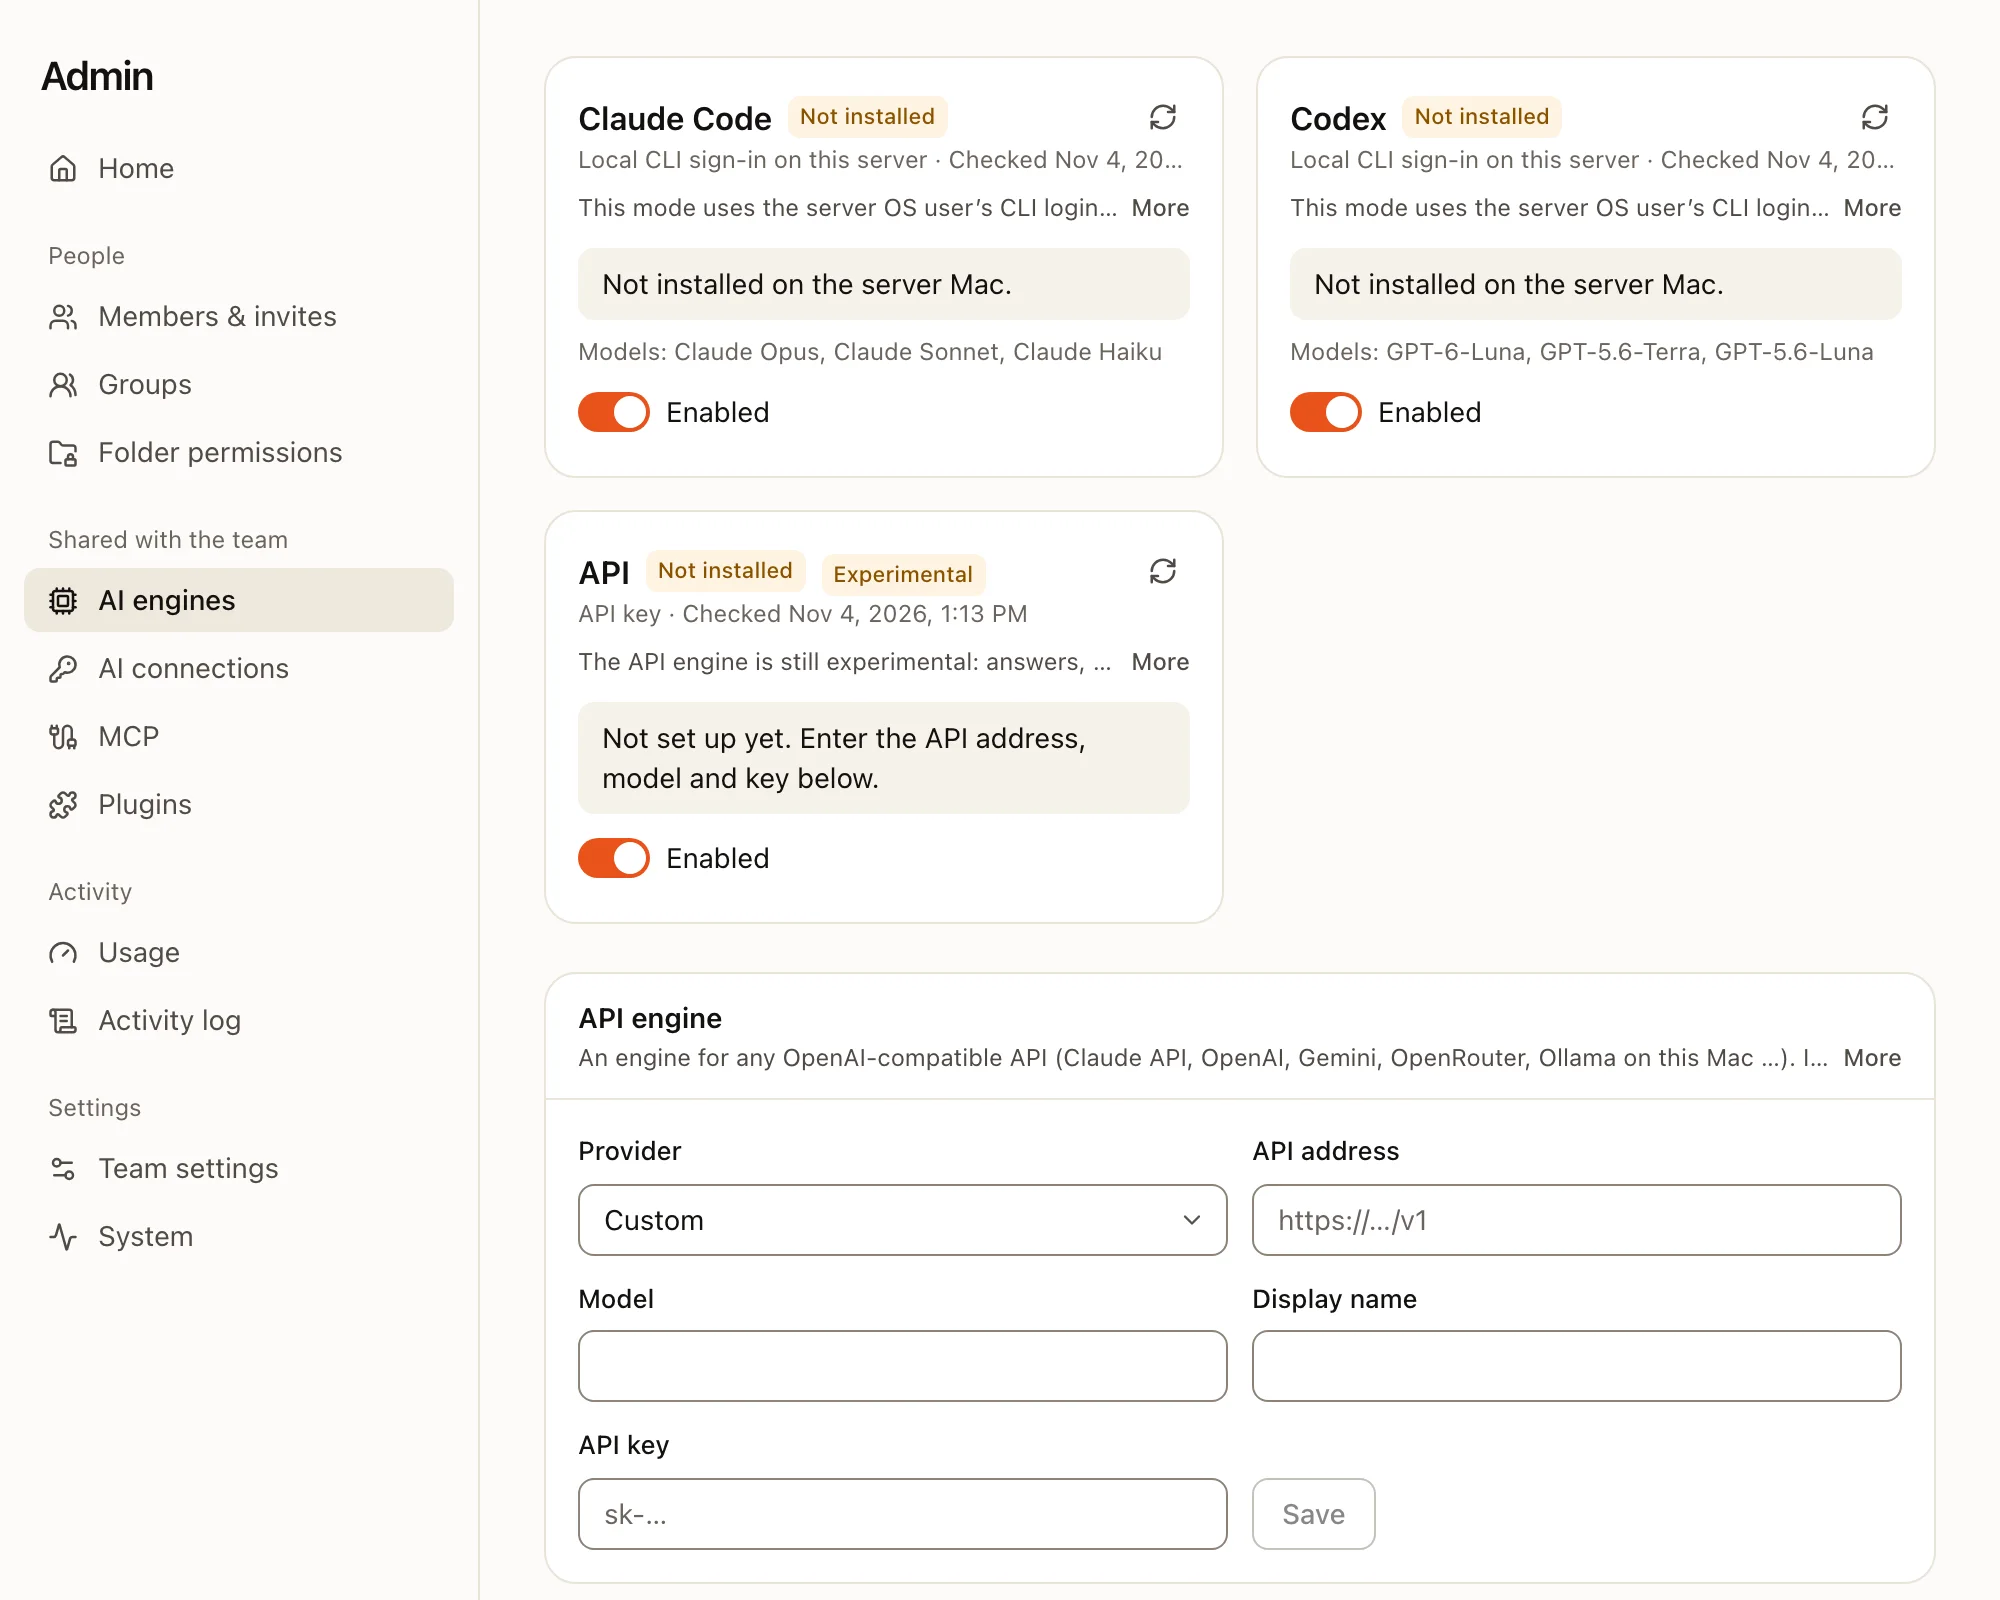
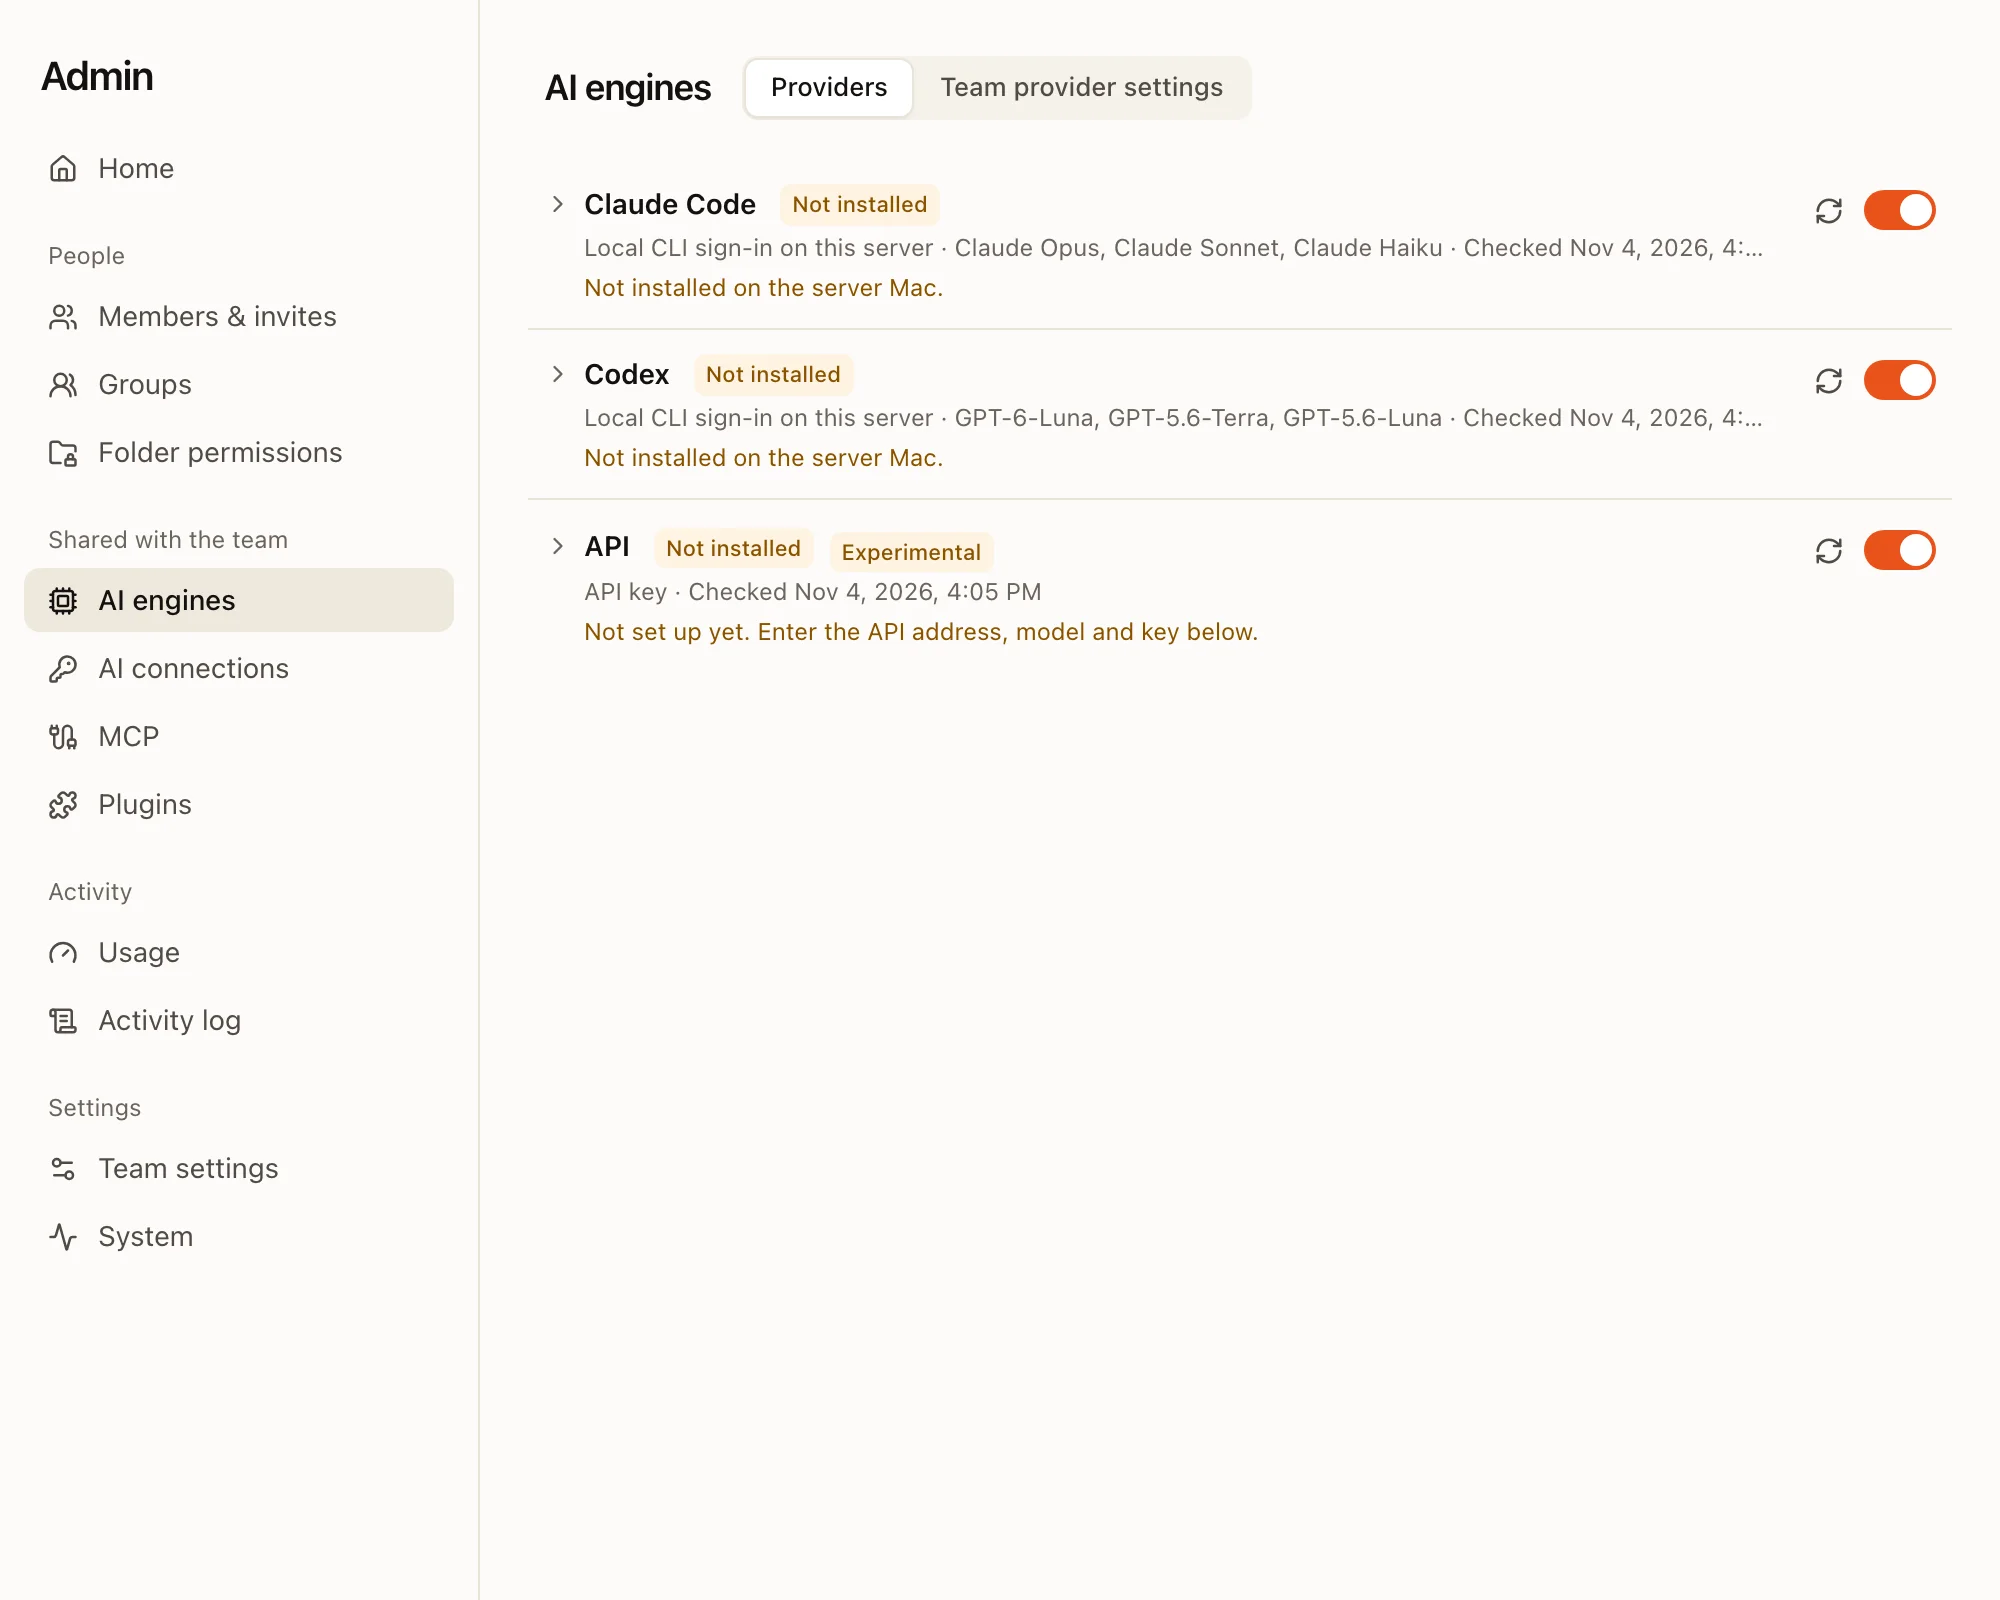
Docs: the AI engines tabs (Providers, Team provider settings) with new screenshots
The docs site now shows Admin › AI engines as it is on main: the Providers list, an engine opened, and Team
provider settings, with screenshots retaken from a server running main (made-up demo team). Admin Home and the
activity log shots are retaken too. The notes about older screens now name the version (before 0.4.0) instead of
"older versions", and usage limits point to AI engines › Team provider settings.

diff --git a/scripts/docs/screenshots.ts b/scripts/docs/screenshots.ts
@@ -65,6 +65,8 @@ const SHOTS: Shot[] = [
   { file: 'usage/team', path: '/admin/usage', crop: 'main' },
   { file: 'admin/home', path: '/admin' },
   { file: 'admin/engines', path: '/admin/engines', crop: 'main' },
+  { file: 'admin/engines-open', path: '/admin/engines', prepare: click('[data-testid="engine-open"]'), crop: '[data-testid="engine-card"]', pad: 16 },
+  { file: 'admin/engines-team', path: '/admin/engines?tab=team', crop: 'main' },
   { file: 'admin/activity-log', path: '/admin/audit', crop: 'main' },
   { file: 'settings/account-menu', path: '/', prepare: click('[data-testid="account-menu"]'), crop: '[data-testid="account-dropdown"]', pad: 24 },
   { file: 'settings/settings', path: '/settings/profile', crop: '[data-testid="settings-dialog"]' },

diff --git a/docs/site/use/admin.md b/docs/site/use/admin.md
@@ -23,9 +23,9 @@ description: What owners and admins manage, and where each setting lives.
 Assign folders to groups and check access with two test accounts. [Read about permissions](files-and-permissions.md).
 
 #### Connect the AI
-The owner connects an authorized Claude or OpenAI account in **AI connections**. **AI engines** shows whether each engine is ready.
+The owner connects an authorized Claude or OpenAI account in **AI connections**. **AI engines › Providers** shows whether each engine is ready.
 
-![Admin › AI engines: Claude Code, Codex and the API engine, each with its state, models and an on/off switch](../images/admin/engines.webp "AI engines")
+![Admin › AI engines › Providers: Claude Code, Codex and the API engine, each with its state, models, check again and an on/off switch](../images/admin/engines.webp "AI engines › Providers")
 
 #### Invite the team
 Start with a small pilot group, then confirm roles and folder access.
@@ -45,6 +45,27 @@ Back up, then practise a restore with IT. [Read about backups](../operate/backup
 
 :::warning
 People who operate the server, its OS or its storage can read stored files and chats. In hosted plans, that includes Trina's operators.
+:::
+
+## AI engines
+
+**Admin › AI engines** has two tabs.
+
+| Tab | What it holds |
+|---|---|
+| **Providers** | One row per engine (Claude Code, Codex, API): its state, sign-in mode, models and last check, with **↻** to check again and an on/off switch. |
+| **Team provider settings** | The default engine and model, answers at the same time, who may pick the engine, switching to Codex at Claude's limit, and usage limits. |
+
+Click an engine's name to open its details: what is missing and how to fix it, every model, and for the owner the API engine form.
+
+![An engine row opened: the reason it is not ready, its sign-in mode, models and last check](../images/admin/engines-open.webp "An engine opened")
+
+![Admin › AI engines › Team provider settings: team defaults, who picks the engine, the switch to Codex, and usage limits](../images/admin/engines-team.webp "Team provider settings")
+
+Save and Cancel appear in a section only after you change something in it.
+
+:::note
+The two tabs are new in 0.4.0. In 0.3.0 and earlier, everything is on one **AI engines** page.
 :::
 
 ## Activity log

diff --git a/docs/site/use/usage-and-limits.md b/docs/site/use/usage-and-limits.md
@@ -16,7 +16,7 @@ Open **Usage** from your account menu. It shows your answers, tokens and estimat
 ![Settings › Usage: Your usage, your answers by model for this month, and answers, tokens and estimated cost](../images/usage/mine.webp "Your own usage, in Settings")
 
 :::note
-Personal usage is new. In older versions, only admins see usage, in **Admin › Usage**.
+Personal usage is new in 0.4.0. Before that, only admins see usage, in **Admin › Usage**.
 :::
 
 ## The team's usage
@@ -33,7 +33,7 @@ Personal skills are never counted by name, so no admin sees what someone keeps p
 
 ## Set limits
 
-There are no limits by default. Admins add them in **Admin › AI engines**, under usage limits.
+There are no limits by default. Admins add them in **Admin › AI engines › Team provider settings**, under **Usage limits**.
 
 | Limit for | Period |
 |---|---|

diff --git a/docs/site/use/scheduled-tasks.md b/docs/site/use/scheduled-tasks.md
@@ -6,7 +6,7 @@ description: Ask once and let the AI repeat the work on a schedule, in the team'
 A scheduled task runs a request again and again: every weekday morning, every Monday, the first of the month. It runs as the person who made it.
 
 :::note
-In current versions, scheduled tasks have their own **Scheduled** item in the sidebar. Older versions keep them under **Settings › Schedules**.
+From 0.4.0, scheduled tasks have their own **Scheduled** item in the sidebar. Before that, they are under **Settings › Schedules**.
 :::
 
 ![The Scheduled tasks page: two task cards with their folders and times, and a New task button](../images/scheduled/list.webp "Scheduled tasks, with Scheduled in the sidebar")

diff --git a/docs/site/use/mcp.md b/docs/site/use/mcp.md
@@ -6,7 +6,7 @@ description: Let the AI use outside services such as Notion and Linear, with a p
 An MCP connection lets the AI use a service outside the team server. The AI uses the service's tools with the credentials of the connection.
 
 :::note
-Older versions call this screen **External services**.
+Before 0.4.0, this screen is called **External services**.
 :::
 
 ## Two kinds of connection
